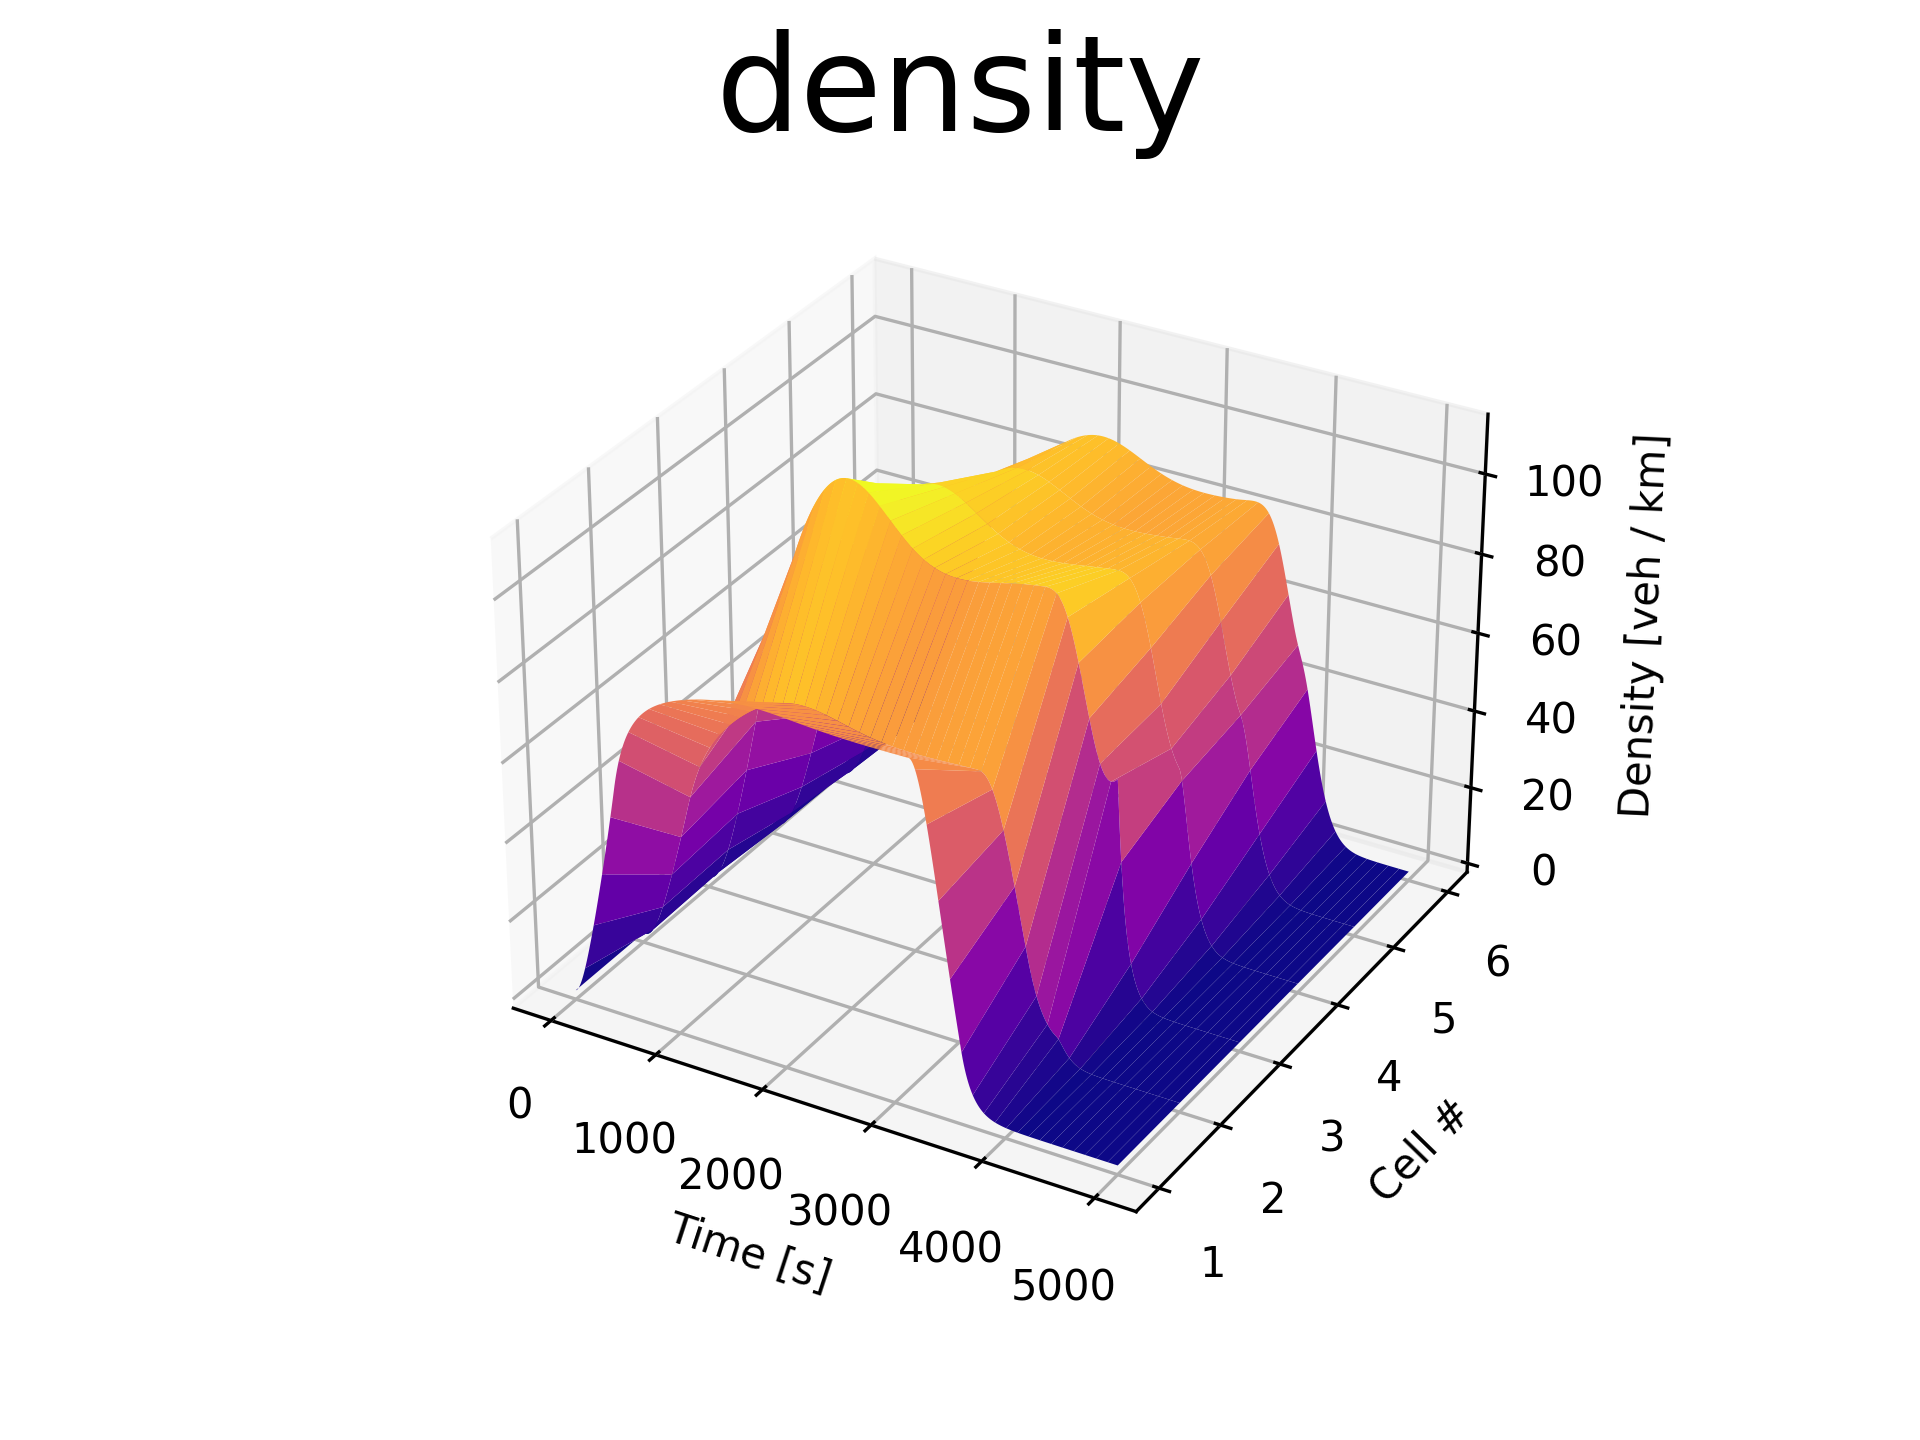
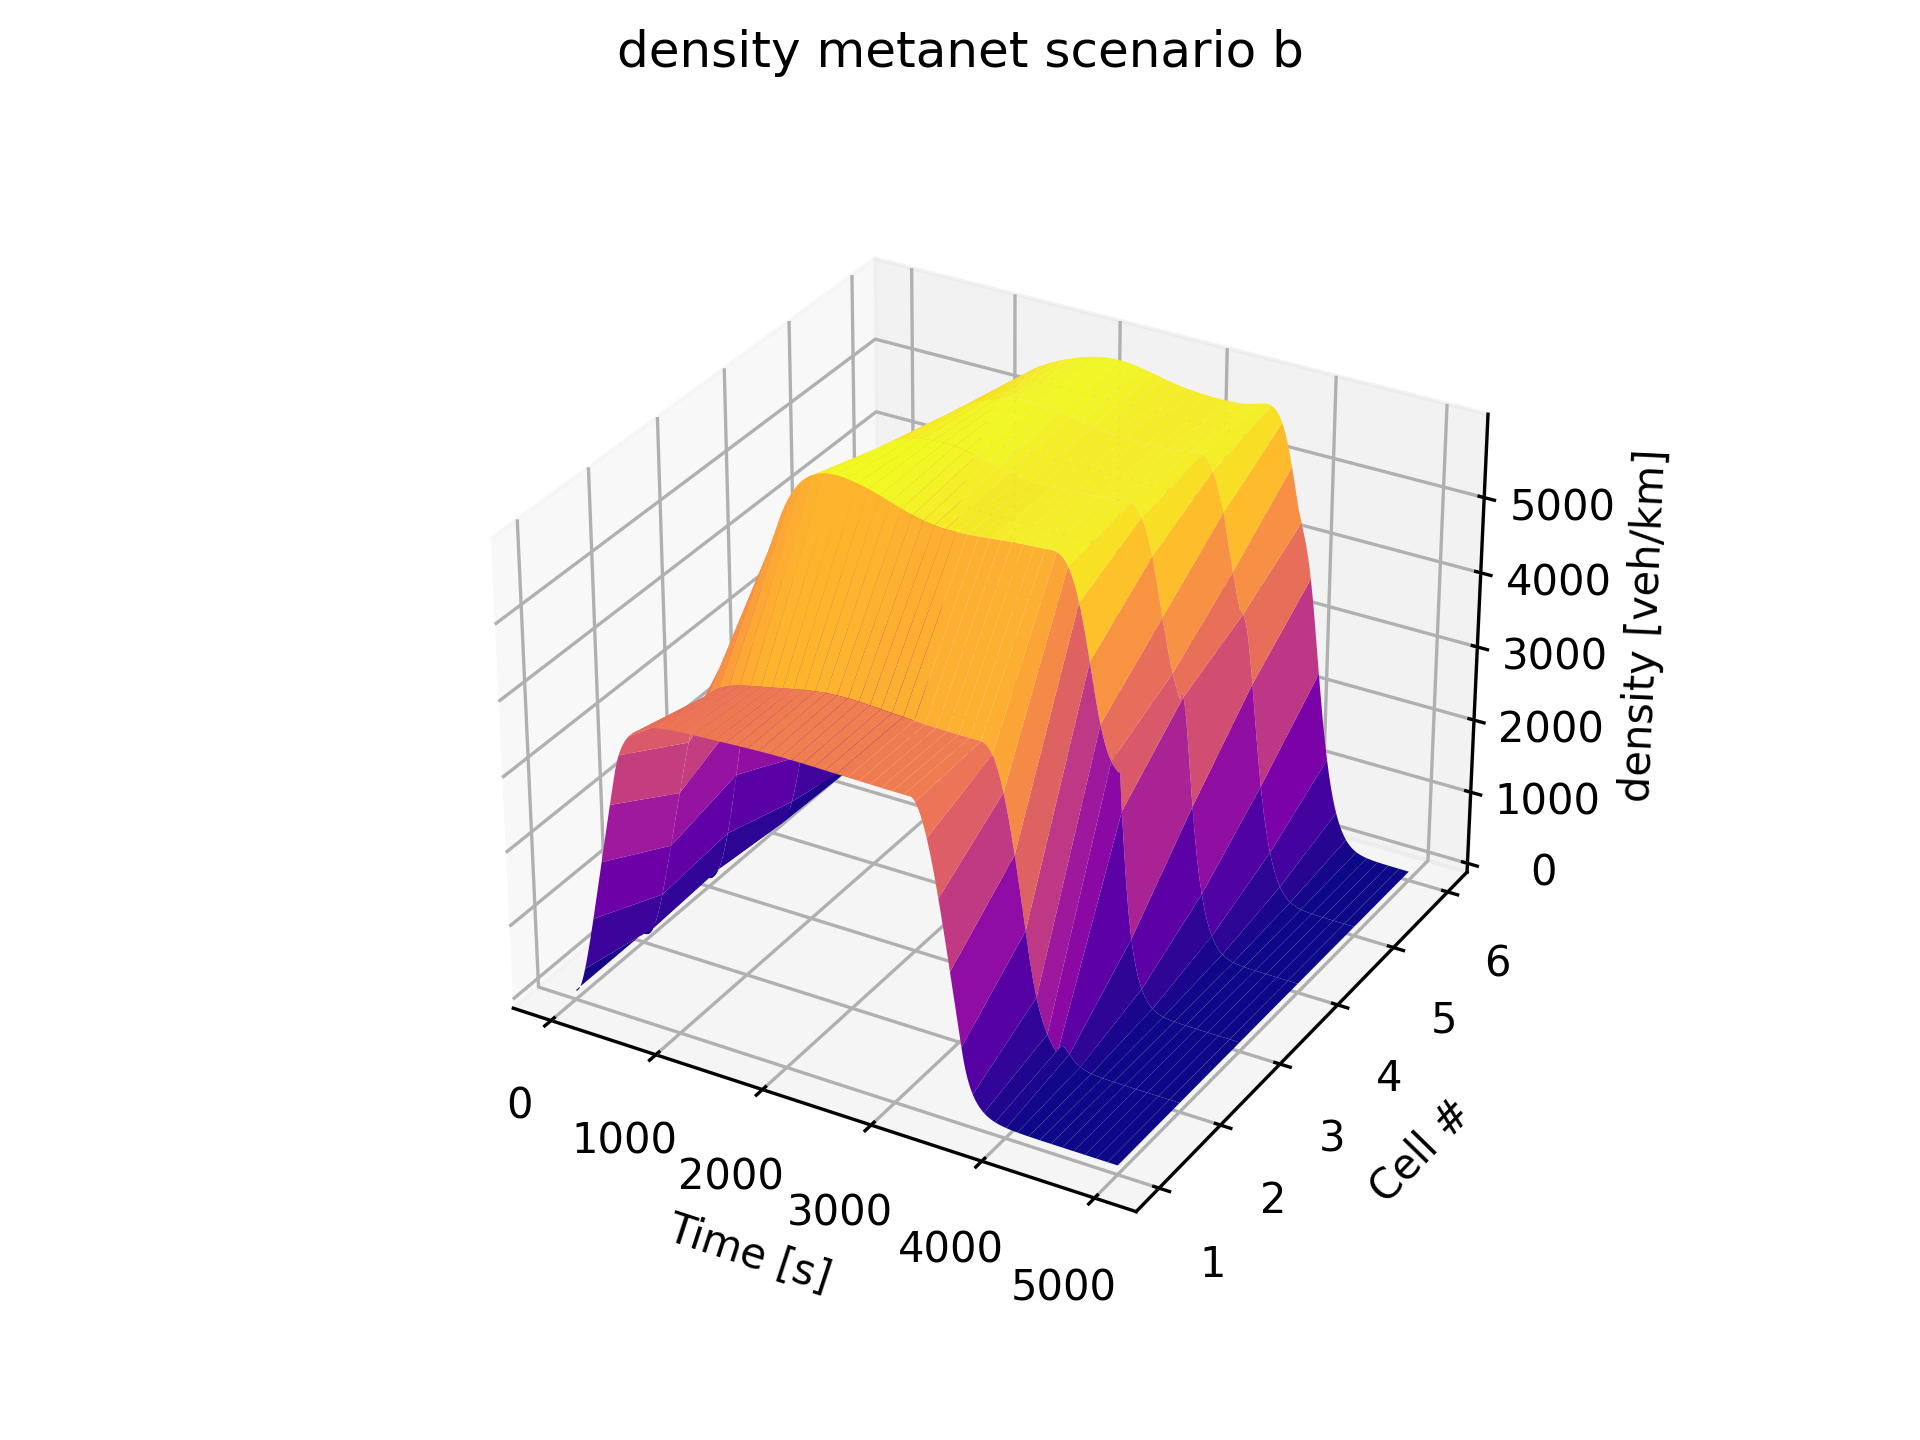
added option to print and save 3D or 2D version of plots

diff --git a/simulation.py b/simulation.py
@@ -1,3 +1,4 @@
+import os
 import numpy as np
 import matplotlib.pyplot as plt
 
@@ -16,6 +17,7 @@ class Simulation:
         self.speed = np.zeros([self.dimension, nr_of_steps])
         self.vkt = 0
         self.vht = 0
+        self.diagram_types = [["flow", "[veh/h]"], ["density", "[veh/km]"], ["speed", "[km/h]"]]
     # stores date from cell to data Matrix
     def update(self):
         for cell in self.net.cells:
@@ -47,7 +49,28 @@ class Simulation:
             # get data for plots
             self.update()
 
-    def plot(self,show_plots, save_plots, dpi):
+    def plot_2d(self, show_plots, save_plots, dpi):
+
+        xvalues = np.linspace(0, self.nr_of_steps * self.delta_time * 3600, self.nr_of_steps)
+
+        # make folders
+        for diagram_type in self.diagram_types:
+            path = 'plots/' + diagram_type[0] + ' ' + self.method + ' scenario ' + self.scenario
+            if not os.path.exists(path):
+                os.mkdir(path)
+
+            for cell in self.net.cells:
+                plt.plot(xvalues, self.flow[cell.id-1])
+                plt.xlabel('Time [s]')
+                plt.ylabel(diagram_type[0] + ' ' + diagram_type[1])
+                plt.title('cell ' + str(cell.id) + ' ' + diagram_type[0] + ' ' + self.method + ' scenario ' + self.scenario)
+                if save_plots:
+                    plt.savefig(path + '/cell ' + str(cell.id) + ' ' + diagram_type[0] + ' ' + self.method + ' scenario ' + self.scenario + '.png', dpi=dpi)
+                if show_plots:
+                    plt.show()
+                plt.clf()
+
+    def plot_3d(self, show_plots, save_plots, dpi):
         # plotting
         array = []
         for cell in self.net.cells:
@@ -56,45 +79,18 @@ class Simulation:
         yvalues = np.array(array)
         X, Y = np.meshgrid(xvalues, yvalues)
 
-        # flow graph
-        fig1 = plt.figure()
-        fig1.suptitle('flow', fontsize=32)
-        ax1 = fig1.add_subplot(111, projection='3d')
-        ax1.plot_surface(X, Y, self.flow, cmap="plasma")
-        ax1.set_ylabel('Cell #')
-        ax1.set_xlabel('Time [s]')
-        ax1.set_zlabel('Flow [veh / h]')
-        if save_plots:
-            plt.savefig('plots/flow ' + self.method + ' scenario ' + self.scenario + '.png', dpi=dpi)
-        if show_plots:
-            plt.show()
-
-        # density graph
-        fig2 = plt.figure()
-        fig2.suptitle('density', fontsize=32)
-        ax2 = fig2.add_subplot(111, projection='3d')
-        ax2.plot_surface(X, Y, self.density, cmap="plasma")
-        ax2.set_ylabel('Cell #')
-        ax2.set_xlabel('Time [s]')
-        ax2.set_zlabel('Density [veh / km]')
-        if save_plots:
-            plt.savefig('plots/density ' + self.method + ' scenario ' + self.scenario + '.png', dpi=dpi)
-        if show_plots:
-            plt.show()
-
-        # speed graph
-        fig3 = plt.figure()
-        fig3.suptitle('speed', fontsize=32)
-        ax3 = fig3.add_subplot(111, projection='3d')
-        ax3.plot_surface(X, Y, self.speed, cmap="plasma")
-        ax3.set_ylabel('Cell #')
-        ax3.set_xlabel('Time [s]')
-        ax3.set_zlabel('Velocity [km / h]')
-        if save_plots:
-            plt.savefig('plots/speed ' + self.method + ' scenario ' + self.scenario + '.png', dpi=dpi)
-        if show_plots:
-            plt.show()
-
+        for diagram_type in self.diagram_types:
+            fig1 = plt.figure()
+            fig1.suptitle(diagram_type[0] + ' ' + self.method + ' scenario ' + self.scenario)
+            ax1 = fig1.add_subplot(111, projection='3d')
+            ax1.plot_surface(X, Y, self.flow, cmap="plasma")
+            ax1.set_ylabel('Cell #')
+            ax1.set_xlabel('Time [s]')
+            ax1.set_zlabel(diagram_type[0] + ' ' + diagram_type[1])
+            if save_plots:
+                plt.savefig('plots/' + diagram_type[0] + ' ' + self.method + ' scenario ' + self.scenario + '.png', dpi=dpi)
+            if show_plots:
+                plt.show()
 
     def animate(self):
         max_flow = self.flow.max()

diff --git a/main.py b/main.py
@@ -9,20 +9,21 @@ method = "all"  # method (ctm/metanet/all)
 nr_of_steps = 500   # Nummer of Steps of Simulation
 delta_time = 10 / 3600  # Delta T of Simulation [h]
 scenario = "all"    # Scenario from Exercise (a/b/c/all)
-precision = 0.001  # precision of alinea optimizer and data print() [-]
+precision = 0.01  # precision of alinea optimizer and data print() [-]
 
 # visualisation
-show_plots = False
-show_animation = False
-show_values = True
-save_plots = True
+show_plots = False      # (True/False)
+show_animation = False  # (True/False)
+show_values = True      # (True/False)
+save_plots = True       # (True/False)
+diagram_type = "2D"     # (2D/3D)
 dpi = 300
 
 # for metanet only
 # set True to apply alinea Ramp metering
 is_applied = True
 # k = 0 : Ramp metering off
-k = 0      # k Value for Metanet if not calculate [-]
+k = 0.173      # k Value for Metanet if not calculate [-]
 optimise_k = True  # set True to calculate optimal K-Value
 
 # -------------------------------------------------------------------------------------------------------------
@@ -79,7 +80,10 @@ for method in methods:
         simulation.run()
 
         # show data
-        simulation.plot(show_plots, save_plots, dpi)
+        if diagram_type == "2D":
+            simulation.plot_2d(show_plots, save_plots, dpi)
+        if diagram_type == "3D":
+            simulation.plot_3d(show_plots, save_plots, dpi)
         if show_animation:
             simulation.animate()
         if show_values:

diff --git a/test.py b/test.py
@@ -1,11 +1,7 @@
-import matplotlib.pyplot as plt
-
-# Creating data
-year = ['2010', '2002', '2004', '2006', '2008']
-production = [25, 15, 35, 30, 10]
-
-# Plotting barchart
-plt.bar(year, production)
-
-# Saving the figure.
-plt.savefig("output.jpg")
+path_flow = 'plots/flow ' + self.method + ' scenario ' + self.scenario
+if not os.path.exists(path_flow):
+    os.mkdir(path_flow)
+path_density = 'plots/density ' + self.method + ' scenario ' + self.scenario
+os.mkdir(path_density)
+path_speed = 'plots/speed ' + self.method + ' scenario ' + self.scenario
+os.mkdir(path_speed)
